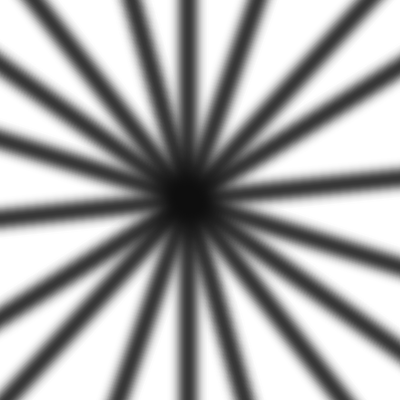
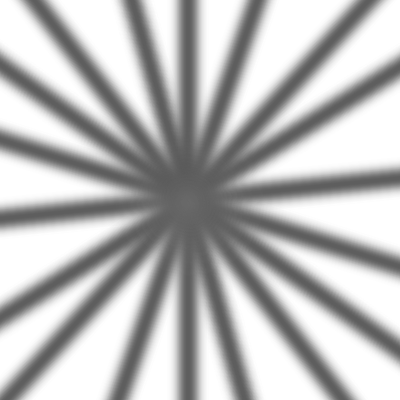
弾薬BOXクラス作成中

diff --git a/Project/SourceCode/Object/rifle_cartridge_box.cpp b/Project/SourceCode/Object/rifle_cartridge_box.cpp
@@ -1,0 +1,15 @@
+#include "rifle_cartridge_box.hpp"
+
+RifleCartridgeBox::RifleCartridgeBox(const GunKind kind) :
+	m_gun_kind		(kind),
+	m_item_kind		(ItemKind::kRifleCartridge),
+	m_have_num		(0),
+	m_max_have_num	(0)
+{
+
+}
+
+RifleCartridgeBox::~RifleCartridgeBox()
+{
+
+}

diff --git a/Project/SourceCode/Kind/item_kind.hpp b/Project/SourceCode/Kind/item_kind.hpp
@@ -3,6 +3,6 @@
 enum class ItemKind
 {
 	kWeapon,
-	kBullet,
+	kRifleCartridge,
 	kPotion,
 };
